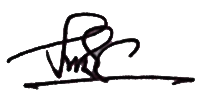
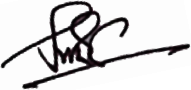
Signature rotate done

Changed region(s): [[0.0, 0.0, 0.9948, 1.0]]

diff --git a/resources/views/admin/scholarship/pdf.blade.php b/resources/views/admin/scholarship/pdf.blade.php
@@ -205,7 +205,7 @@
                 <div class="border-t border-black pt-1 px-4 text-center">শিক্ষার্থীর স্বাক্ষর</div>
                 <div class="flex flex-col items-center min-w-30">
                     <img src="{{ asset('images/signature.png') }}" alt="প্রধান শিক্ষকের স্বাক্ষর"
-                        class="h-14 w-auto object-contain mb-1 -rotate-12">
+                        class="h-14 w-auto object-contain mb-1">
                     <div class="border-t border-black pt-1 px-4 text-center w-full">প্রধান শিক্ষক</div>
                 </div>
             </div>
@@ -272,7 +272,7 @@
                 <div class="border-t border-black pt-1 px-4 text-center invisible">শিক্ষার্থীর স্বাক্ষর</div>
                 <div class="flex flex-col items-center min-w-30">
                     <img src="{{ asset('images/signature.png') }}" alt="প্রধান শিক্ষকের স্বাক্ষর"
-                        class="h-14 w-auto object-contain mb-1 -rotate-12">
+                        class="h-14 w-auto object-contain mb-1">
                     <div class="border-t border-black pt-1 px-4 text-center w-full">প্রধান শিক্ষক</div>
                 </div>
             </div>
@@ -300,7 +300,7 @@
             }
 
             btn.disabled = true;
-            btn.textContent = 'ডাউনলোড হচ্ছে...';
+            btn.textContent = 'Downloading PDF... - পিডিএফ ডাউনলোড হচ্ছে...';
 
             // Hide external images temporarily if they cause CORS errors
             const images = element.querySelectorAll('img');
@@ -353,12 +353,12 @@
                 })
                 .then(function() {
                     btn.disabled = false;
-                    btn.textContent = 'Download PDF';
+                    btn.textContent = 'Download PDF - পিডিএফ ডাউনলোড করুন';
                 })
                 .catch(function(err) {
                     console.error('PDF error:', err);
                     btn.disabled = false;
-                    btn.textContent = 'Download PDF';
+                    btn.textContent = 'Download PDF - পিডিএফ ডাউনলোড করুন';
                     alert('PDF ডাউনলোড ব্যর্থ: ' + (err && err.message ? err.message : String(err)));
                 });
         }
